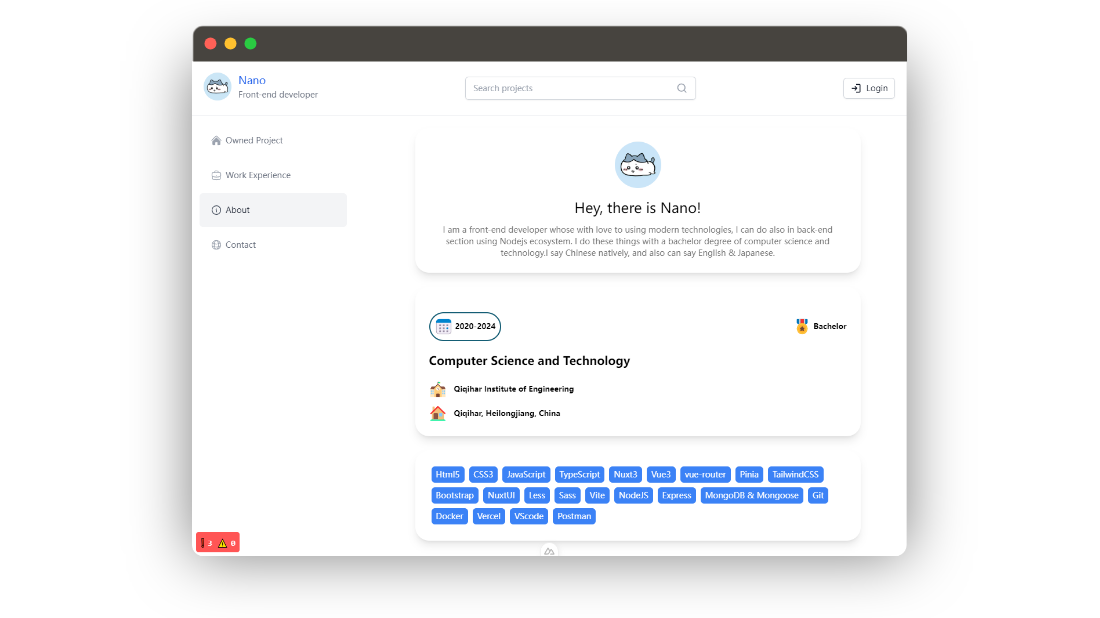
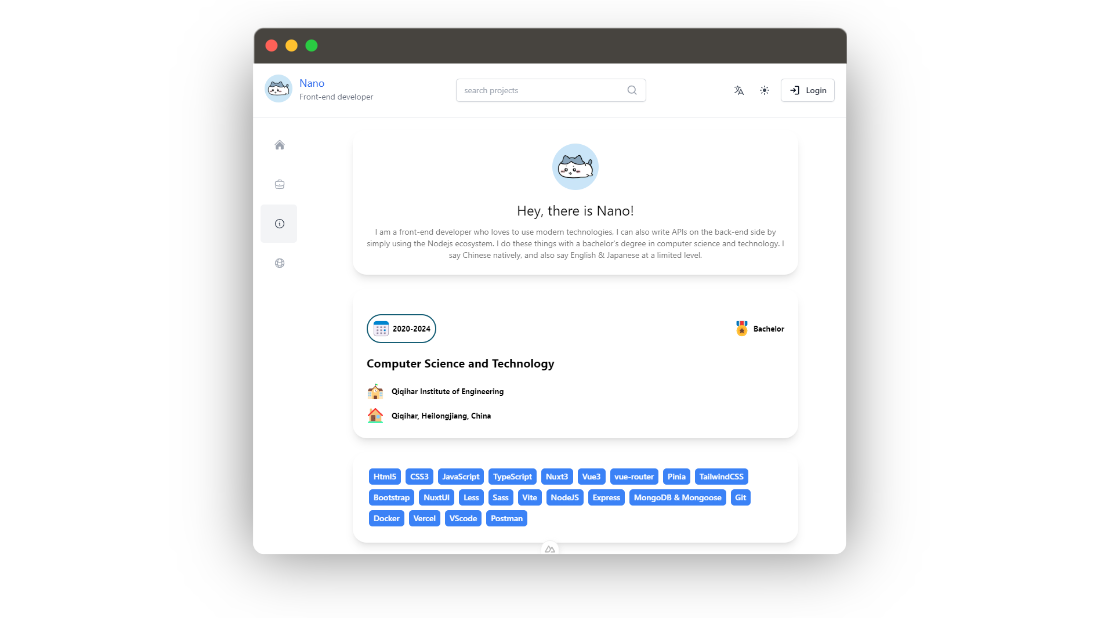
⚡: change screenshot

Changed region(s): [[0.1236, 0.0307, 0.8655, 0.9531], [0.3091, 0.4919, 0.5873, 0.7071]]

diff --git a/README.md b/README.md
@@ -50,9 +50,9 @@
     <img src="/SCREENSHOT/about-mockup.png">
 </p>
 
-> The image shown here is a about-page for desktop-size, [click here](https://github.com/gaomingzhao666/nano-portfolio/tree/main/SCREENSHOT) to see more detailed screenshot for this application.
+> The image shown here is a about-page for laptop-size, [click here](https://github.com/gaomingzhao666/nano-portfolio/tree/main/SCREENSHOT) to see more detailed screenshot for this application.
 
-Nano-portfolio is a developer introduction web application integrated with Github Octokit and Nuxt3 ecosystem that includes `Nuxt-UI` ` Nuxt-Mongoose` `Pinia` `i18n` etc. All of the modules are officially compatible with Nuxt3, and all of the code inside of this project uses composition API and ESM.
+Nano-portfolio is a developer introduction web application integrated with Github Octokit and Nuxt3 ecosystem that includes `Nuxt-UI` `Nuxt-Mongoose` `Pinia` `i18n` etc. All of the modules are officially compatible with Nuxt3, and all of the code inside of this project uses composition API and ESM.
 
 <p align="right">(<a href="#readme-top">back to top</a>)</p>
 

diff --git a/README-JP.md b/README-JP.md
@@ -50,7 +50,7 @@
     <img src="/SCREENSHOT/about-mockup.png">
 </p>
 
-> この写真はパソコンサイに基づいた about ページ, [こちらへ](https://github.com/gaomingzhao666/nano-portfolio/tree/main/SCREENSHOT) このプロジェクトの写真をご覧ください。
+> この写真は iPad サイに基づいた about ページ, [こちらへ](https://github.com/gaomingzhao666/nano-portfolio/tree/main/SCREENSHOT) このプロジェクトの写真をご覧ください。
 
 Nano-portfolio は、GitHub Octokit API と Nuxt3 エコシステムを統合した開発者個人プロフィールウェブアプリケーションです。使用されているほとんどのディペンデンシーは公式にサポートされ、メンテナンスされています。これには `Nuxt-UI`、`Nuxt-Mongoose`、`Pinia`、`i18n` などが含まれています。すべてのモジュールは Nuxt と互換性があり、コードはすべてコンポジション API と ESM を使用してモジュールインポートされています。
 

diff --git a/README-CN.md b/README-CN.md
@@ -50,7 +50,7 @@
     <img src="/SCREENSHOT/about-mockup.png">
 </p>
 
-> 上方是 PC 设备尺寸的 about 页面截图, [点击此处](https://github.com/gaomingzhao666/nano-portfolio/tree/main/SCREENSHOT) 可查看更多详细截图。
+> 上方是 平板 设备尺寸的 about 页面截图, [点击此处](https://github.com/gaomingzhao666/nano-portfolio/tree/main/SCREENSHOT) 可查看更多详细截图。
 
 Nano-portfolio 是一个与 Github Octokit 和 Nuxt3 生态结合的开发者个人简介网页应用，其使用的大部分依赖被官方所支持和维护，其中包括 `Nuxt-UI` `Nuxt-Mongoose` `Pinia` `i18n` 等。所有模块均与 Nuxt 所兼容，库内所有代码均使用组合式 API 以及 ESM 进行模块导入。
 
